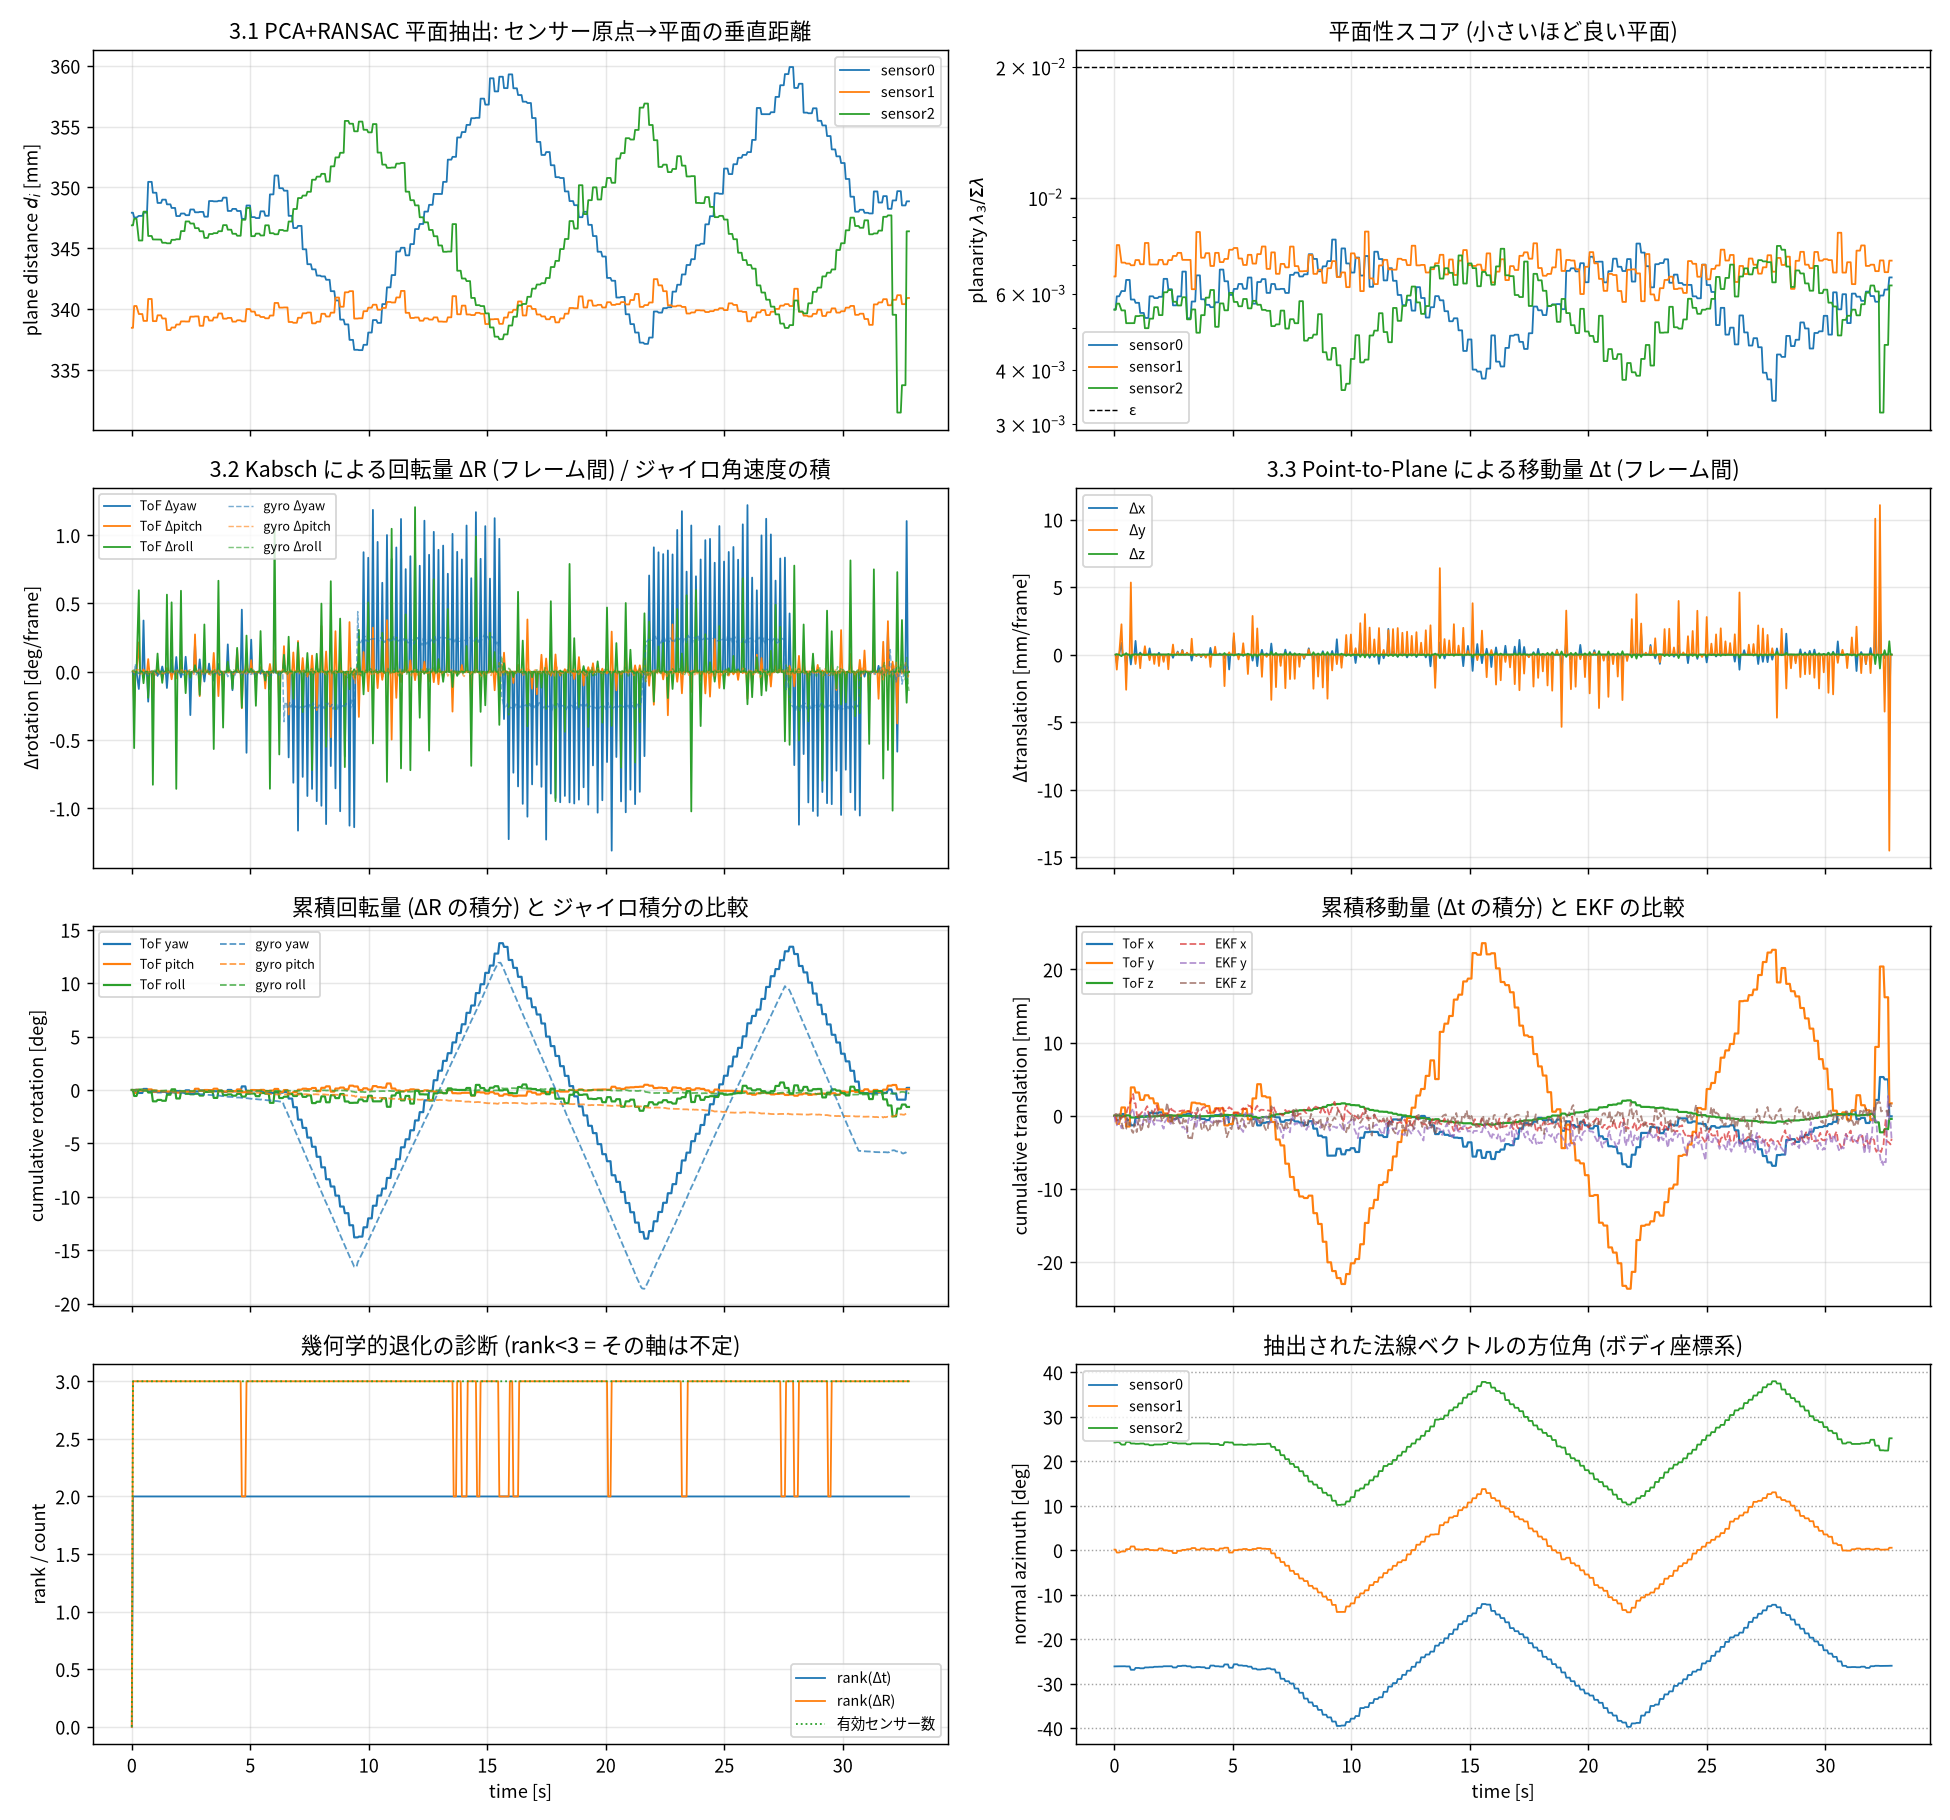
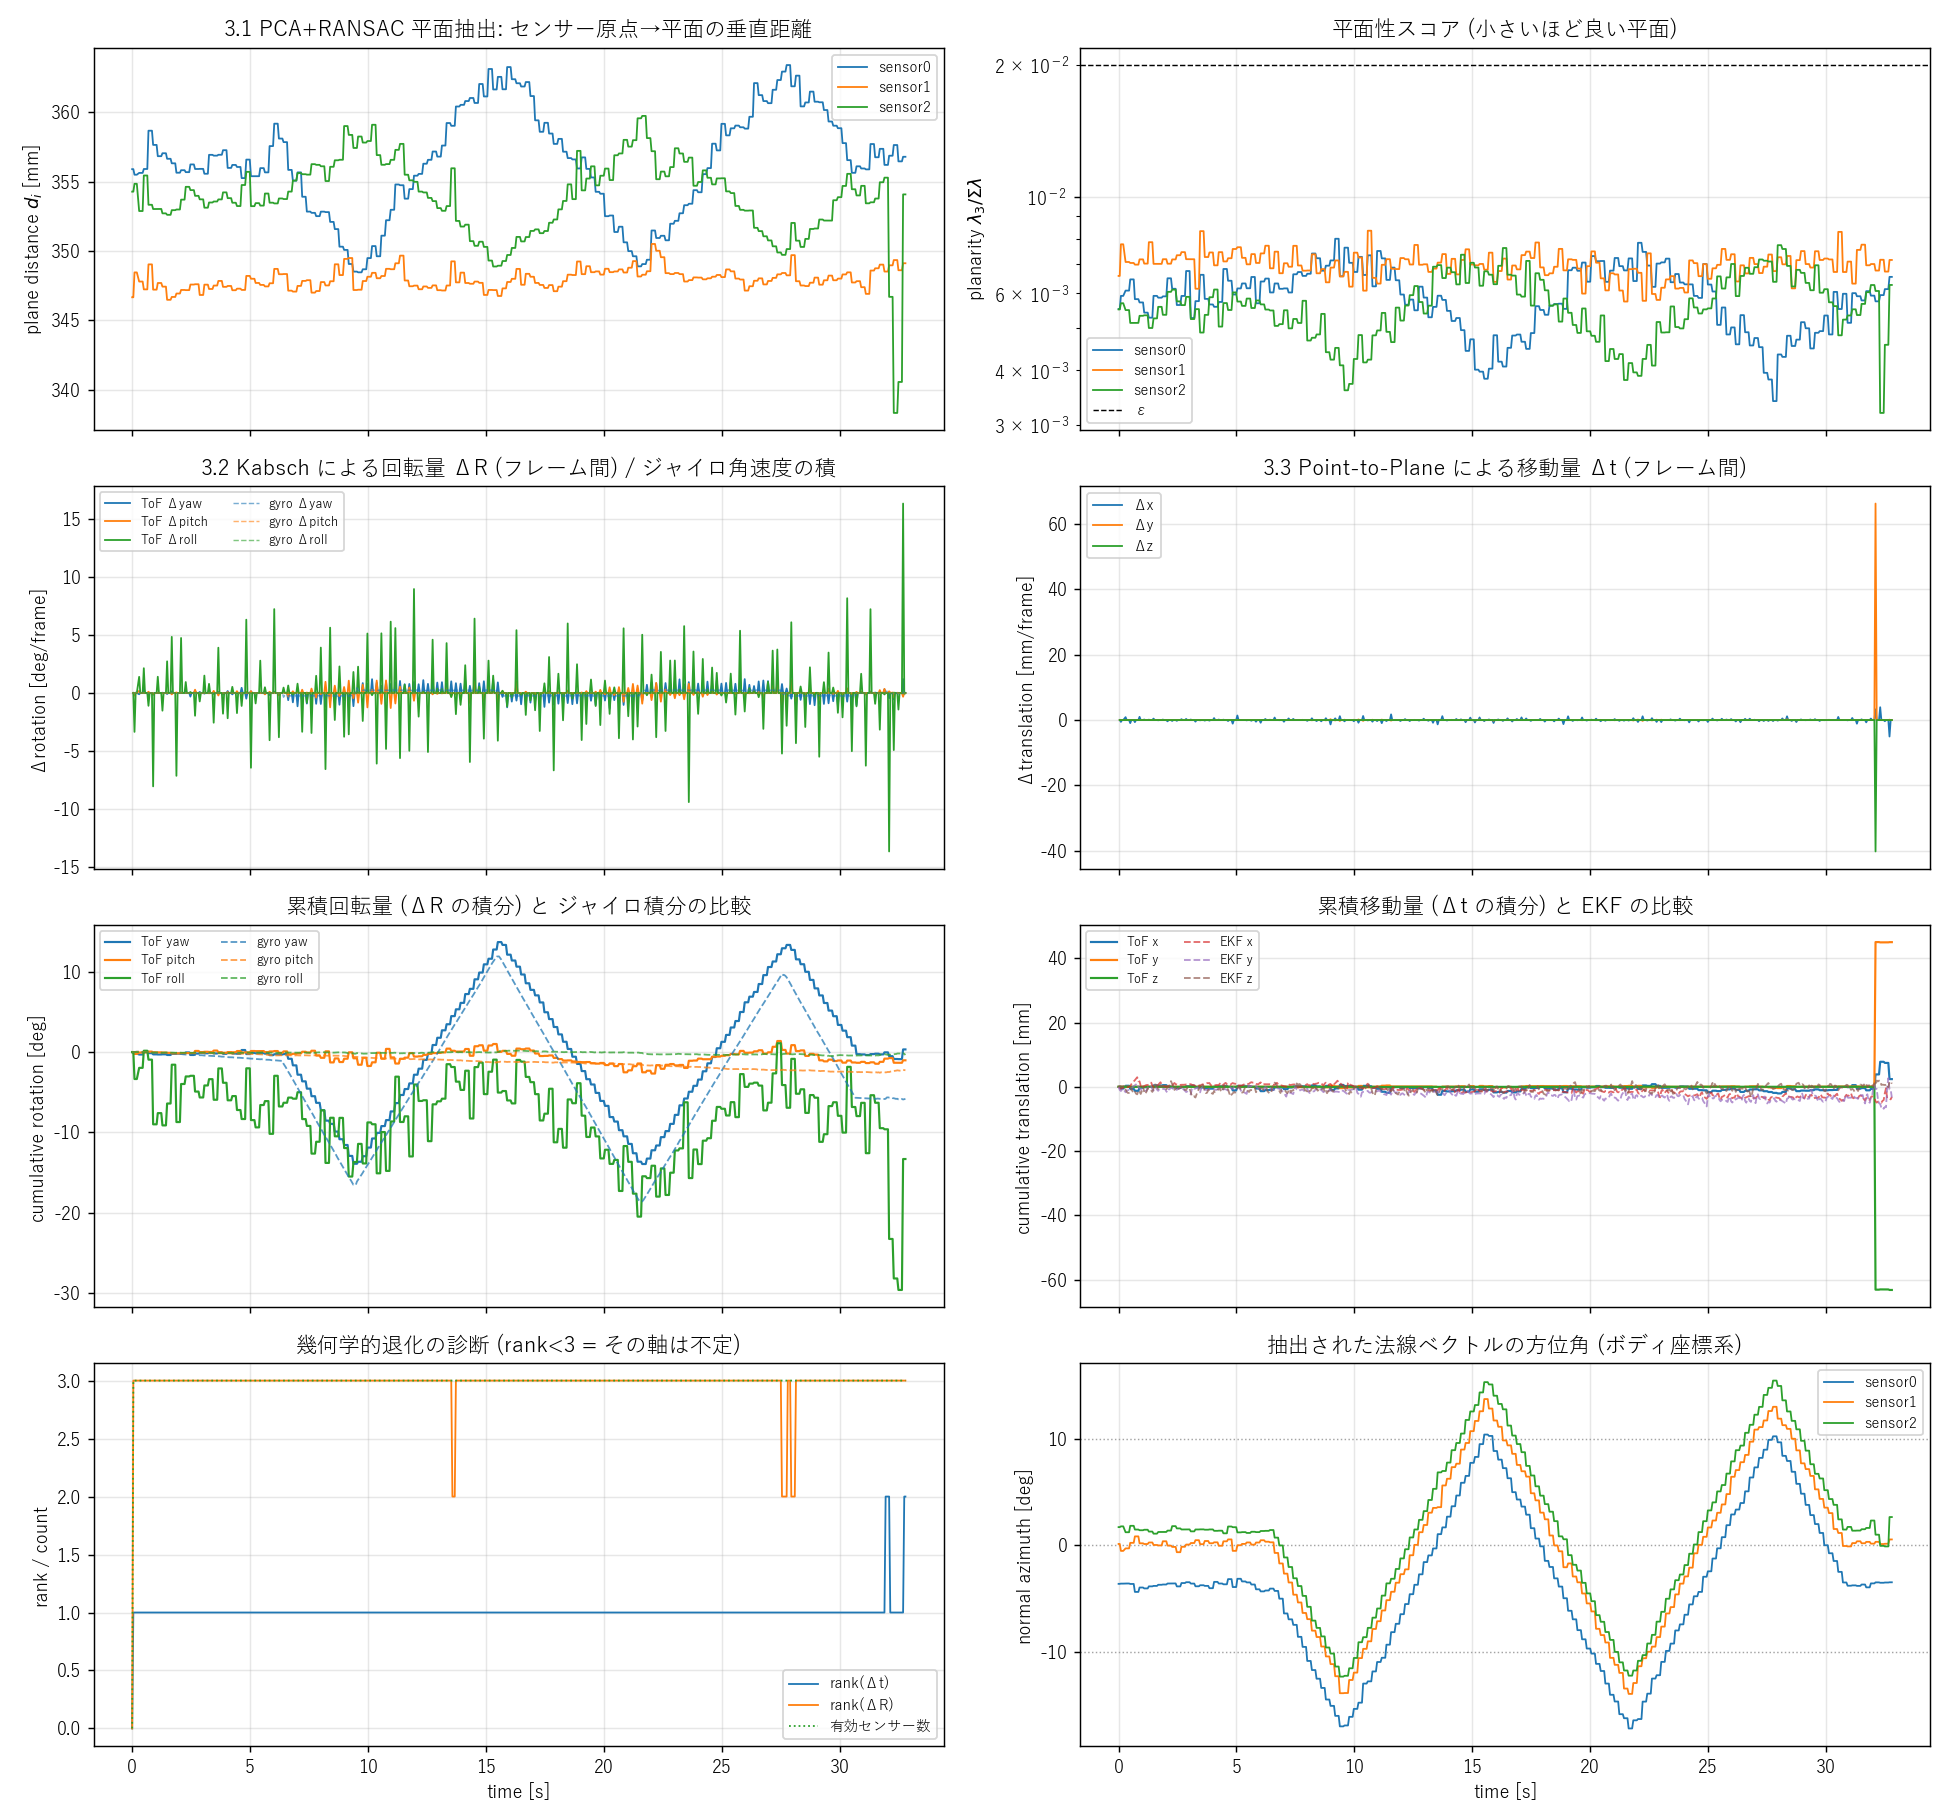
minor update

diff --git a/example/lps/csv/plot_position.py b/example/lps/csv/plot_position.py
@@ -1,0 +1,63 @@
+import csv
+import numpy as np
+import matplotlib.pyplot as plt
+from mpl_toolkits.mplot3d.art3d import Line3DCollection
+
+# CSVファイル読み込み
+filename = "loc_movie.csv"
+x, y, z = [], [], []
+
+with open(filename, newline='') as csvfile:
+    reader = csv.reader(csvfile)
+    for i, row in enumerate(reader):
+        if i<40:
+            continue
+        x.append(float(row[1]))
+        y.append(float(row[2]))
+        z.append(float(row[3]))
+
+# numpy配列に変換
+points = np.array([x, y, z]).T  # shape = (N, 3)
+
+# セグメントを作る（N-1本の線分）
+segments = np.array([points[i:i+2] for i in range(len(points)-1)])
+
+# カラーグラデーションを作成（例：始点→終点で"viridis"カラーマップ）
+from matplotlib import cm
+from matplotlib.colors import Normalize
+
+norm = Normalize(vmin=0, vmax=len(segments))
+colors = cm.viridis(np.linspace(0, 1, len(segments)))
+
+# 3Dプロット作成
+fig = plt.figure()
+ax = fig.add_subplot(111, projection='3d')
+
+# 軌跡ライン（カラー付き）を追加
+lc = Line3DCollection(segments, colors=colors, linewidths=2)
+ax.add_collection3d(lc)
+
+# 点も重ねておく（任意）
+ax.scatter(x, y, z, c='gray', s=5)
+
+# 軸ラベル
+ax.set_xlabel("X")
+ax.set_ylabel("Y")
+ax.set_zlabel("Z")
+
+# 縮尺を揃える（前回のやつ）
+x_range = max(x) - min(x)
+y_range = max(y) - min(y)
+z_range = max(z) - min(z)
+max_range = max(x_range, y_range, z_range)
+
+x_middle = (max(x) + min(x)) / 2
+y_middle = (max(y) + min(y)) / 2
+z_middle = (max(z) + min(z)) / 2
+
+ax.set_xlim(x_middle - max_range/2, x_middle + max_range/2)
+ax.set_ylim(y_middle - max_range/2, y_middle + max_range/2)
+ax.set_zlim(z_middle - max_range/2, z_middle + max_range/2)
+
+# 表示
+plt.show()
